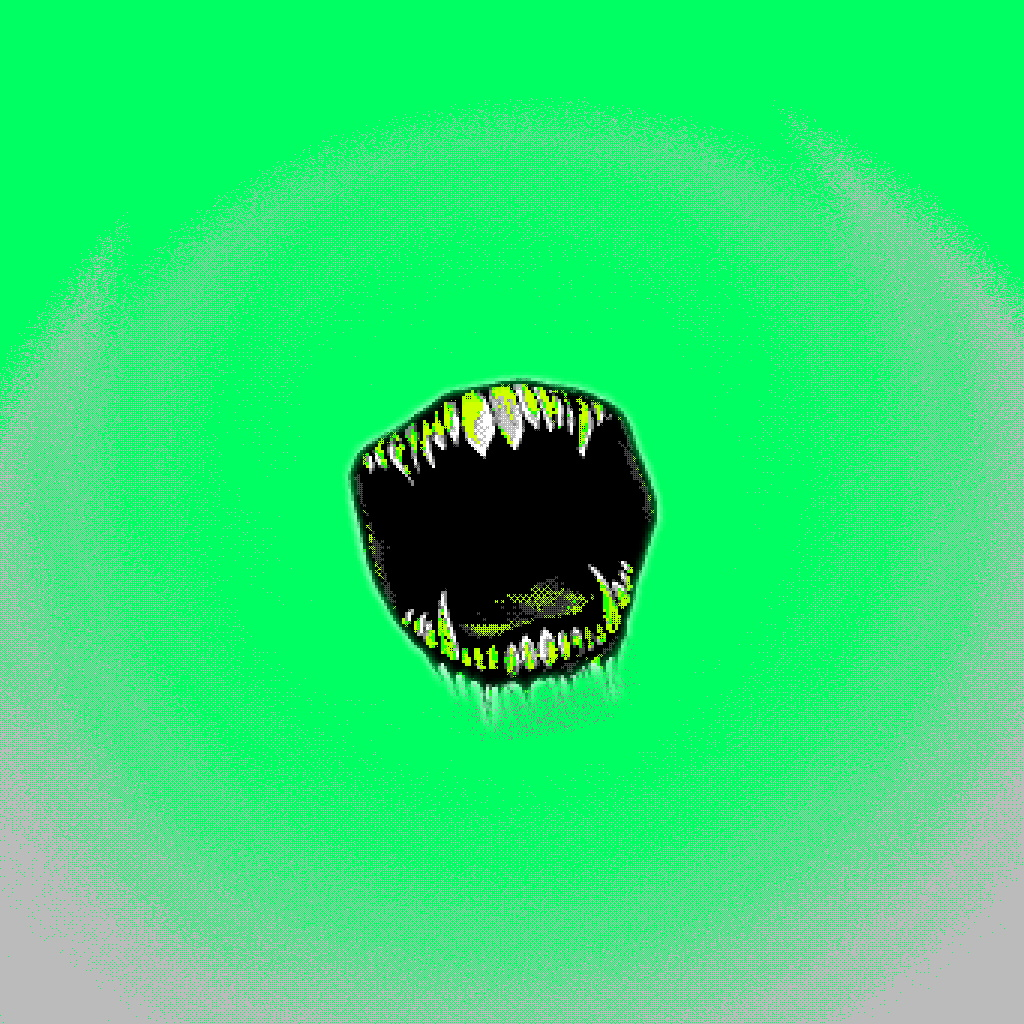
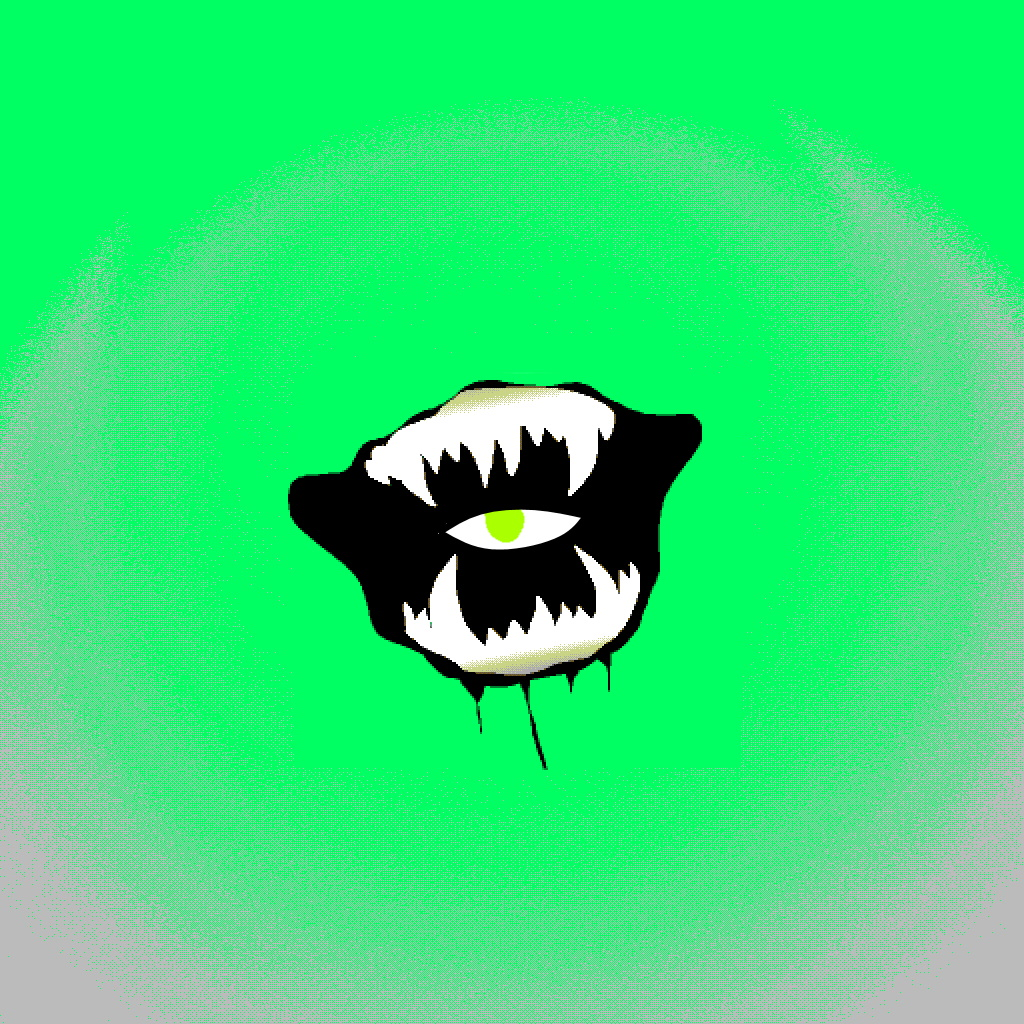
Reduced Stereoscopy effect, adjusted hue shift effect, removed tessellation backdrop - overall looks better

Changed region(s): [[0.2812, 0.3438, 0.6875, 0.75], [0.6875, 0.6875, 0.7188, 0.75], [0.2812, 0.7188, 0.3125, 0.75]]

diff --git a/a4/Code.java b/a4/Code.java
@@ -138,8 +138,8 @@ public class Code extends JFrame implements GLEventListener, KeyListener
 
 	// material 1
 	private float[] GmatAmb = {0.3f, 0.3f, 0.3f};
-	private float[] GmatDif = {0.4f, 0.4f, 0.4f};
-	private float[] GmatSpe = {0.4f, 0.4f, 0.4f};
+	private float[] GmatDif = {0.2f, 0.4f, 0.4f};
+	private float[] GmatSpe = {0.2f, 0.1f, 0.4f};
 	private float GmatShi = Utils.goldShininess();
 	
 	// material 2
@@ -319,7 +319,7 @@ public class Code extends JFrame implements GLEventListener, KeyListener
 		gl.glClear(GL_DEPTH_BUFFER_BIT);
 		
 		gl.glColorMask(false, true, true, false);
-		scene(30.0f);
+		scene(3.0f);
 	}
 
 	public void scene(float leftRight){
@@ -359,7 +359,7 @@ public class Code extends JFrame implements GLEventListener, KeyListener
 		//gl.glClear(GL_DEPTH_BUFFER_BIT);
 		//geometry(gl);
 		gl.glClear(GL_DEPTH_BUFFER_BIT);
-		tessellation(gl);
+		//tessellation(gl);
 		gl.glEnable(GL_DEPTH_TEST);
 
 		//Clears color & depth buffers to default and uses prev. created renderingProgram object
@@ -452,6 +452,27 @@ public class Code extends JFrame implements GLEventListener, KeyListener
 			transparent = false;
 			if (i == 2 || i == 3 || i == 6 || i == 7)//Transparent Glass Chamber / Stars
 				transparent = true;
+			/*else if (i == 8){
+				gl.glClear(GL_DEPTH_BUFFER_BIT);
+				mLoc = gl.glGetUniformLocation(renderingProgramGeom, "m_matrix");
+				vLoc = gl.glGetUniformLocation(renderingProgramGeom, "v_matrix");
+				pLoc = gl.glGetUniformLocation(renderingProgramGeom, "p_matrix");
+				nLoc = gl.glGetUniformLocation(renderingProgramGeom, "norm_matrix");
+				sLoc = gl.glGetUniformLocation(renderingProgramGeom, "shadowMVP");
+				alphaLoc = gl.glGetUniformLocation(renderingProgramGeom, "alpha");
+				flipLoc = gl.glGetUniformLocation(renderingProgramGeom, "flipNormal");
+			}
+			else if (i == 9){
+				gl.glClear(GL_DEPTH_BUFFER_BIT);
+				mLoc = gl.glGetUniformLocation(renderingProgram2, "m_matrix");
+				vLoc = gl.glGetUniformLocation(renderingProgram2, "v_matrix");
+				pLoc = gl.glGetUniformLocation(renderingProgram2, "p_matrix");
+				nLoc = gl.glGetUniformLocation(renderingProgram2, "norm_matrix");
+				sLoc = gl.glGetUniformLocation(renderingProgram2, "shadowMVP");
+				alphaLoc = gl.glGetUniformLocation(renderingProgram2, "alpha");
+				flipLoc = gl.glGetUniformLocation(renderingProgram2, "flipNormal");
+
+			}*/
 
 			if (i%2 == 0) material = 1;
 			else material = 0;
